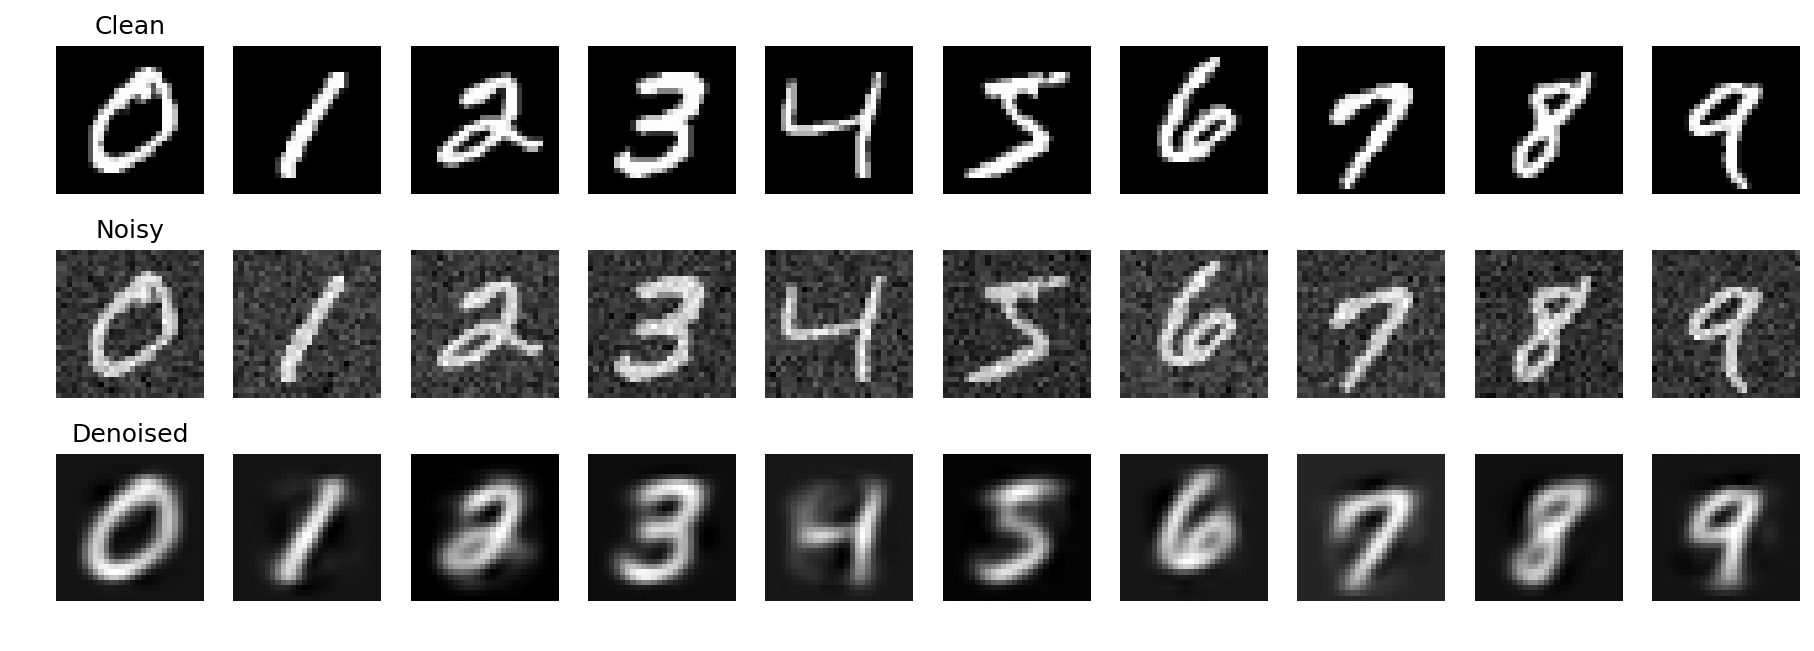
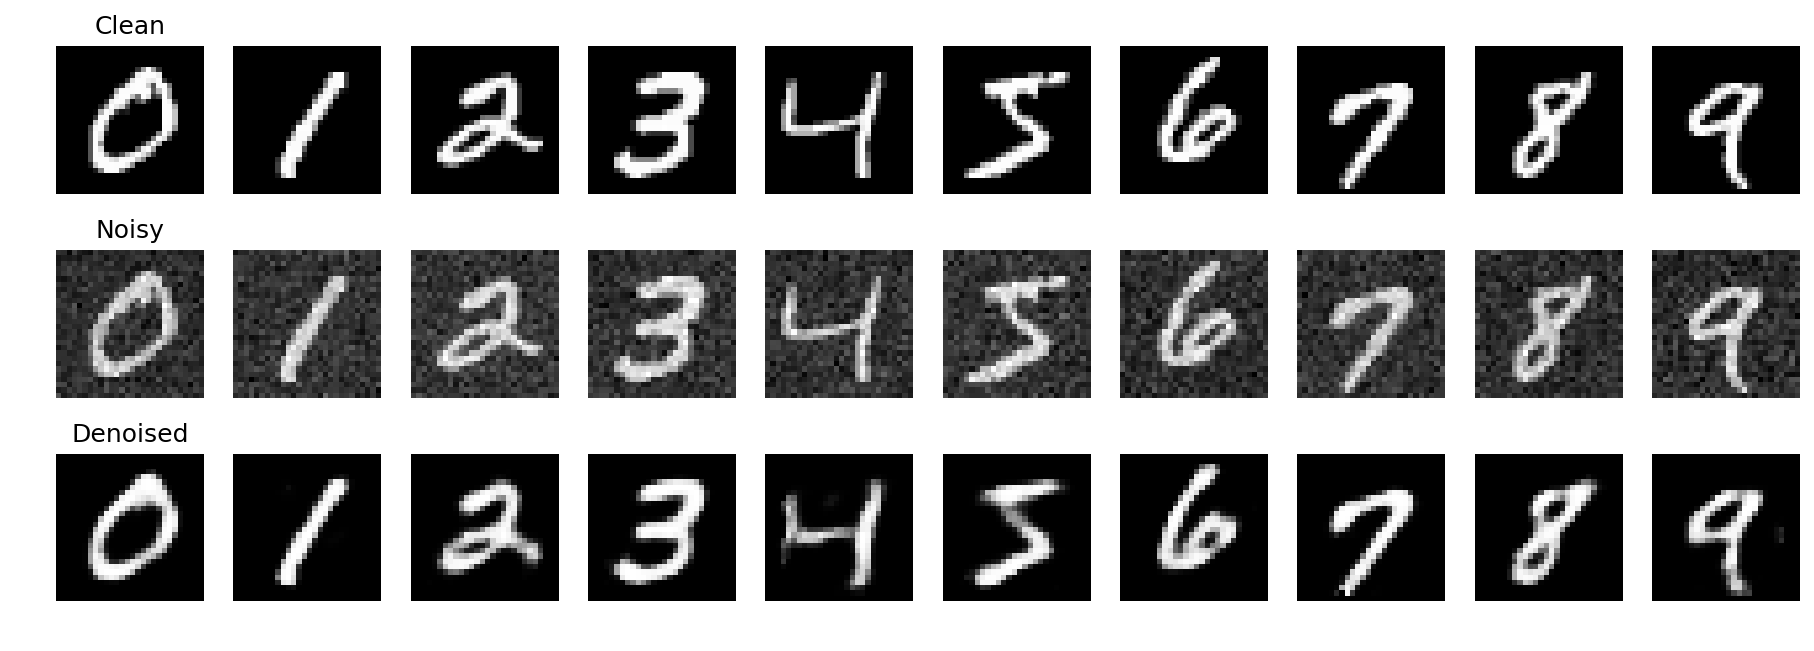
better stuff

diff --git a/DenoisingAutoencoder/basic_denoise_MNIST.py b/DenoisingAutoencoder/basic_denoise_MNIST.py
@@ -11,18 +11,21 @@ import os
 os.makedirs("visuals", exist_ok=True)
 
 (xRef,yRef), _ = mnist.load_data() # x is image, y is label
-shapedSet = xRef.reshape(xRef.shape[0],xRef.shape[1]*xRef.shape[2])
-noisedSet = shapedSet/255.0
+shapedSet = xRef.reshape(xRef.shape[0],xRef.shape[1]*xRef.shape[2])/255.0
 
-noise = np.random.normal(0, 0.1, noisedSet.shape)
+noise = np.random.normal(0, 0.1, shapedSet.shape)
 
-noisedSet = noisedSet + noise
+noisedSet = shapedSet + noise
 noisedImgs = noisedSet.reshape(xRef.shape)
 
 model = Sequential()
-model.add(Dense(xRef.shape[1]*xRef.shape[2]))
-model.compile(optimizer='sgd',loss='mse')
-model.fit(noisedSet,shapedSet,batch_size=32,epochs=15)
+model.add(Dense(xRef.shape[1]*xRef.shape[2], activation='relu'))
+model.add(Dense(int(1/4*xRef.shape[1]*xRef.shape[2]), activation='relu'))
+model.add(Dense(int(1/16*xRef.shape[1]*xRef.shape[2]), activation='relu'))
+model.add(Dense(int(1/4*xRef.shape[1]*xRef.shape[2]), activation='relu'))
+model.add(Dense(xRef.shape[1]*xRef.shape[2], activation='sigmoid'))
+model.compile(optimizer='adam',loss='mse')
+model.fit(noisedSet,shapedSet,batch_size=32,epochs=5)
 
 denoised = model.predict(noisedSet)
 
@@ -54,20 +57,3 @@ for row in range(3):
 plt.savefig("visuals/basic_denoise_mnist.png", dpi=150, bbox_inches='tight')
 print("Saved visuals/basic_denoise_mnist.png")
 plt.show()
-
-
-# xRef = noisedSet.reshape(xRef.shape[0],xRef.shape[1],xRef.shape[2])
-# fig, axes = plt.subplots(1,10,figsize=(15,2))
-# digs = set()
-
-# i=0
-# while len(digs) < 10:
-#     label = yRef[i]
-#     if label not in digs:
-#         ax = axes[label]
-#         ax.imshow(xRef[i], cmap='gray')
-#         ax.set_title(str(label))
-#         ax.axis('off')
-#         digs.add(label)
-#     i+=1
-# plt.show()
